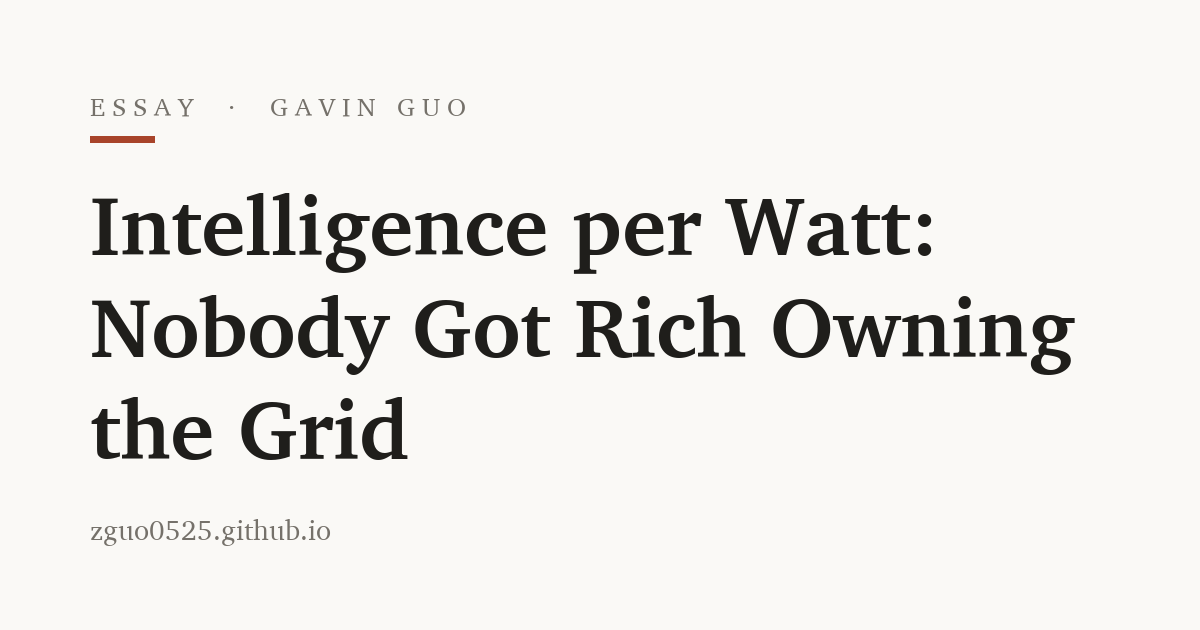
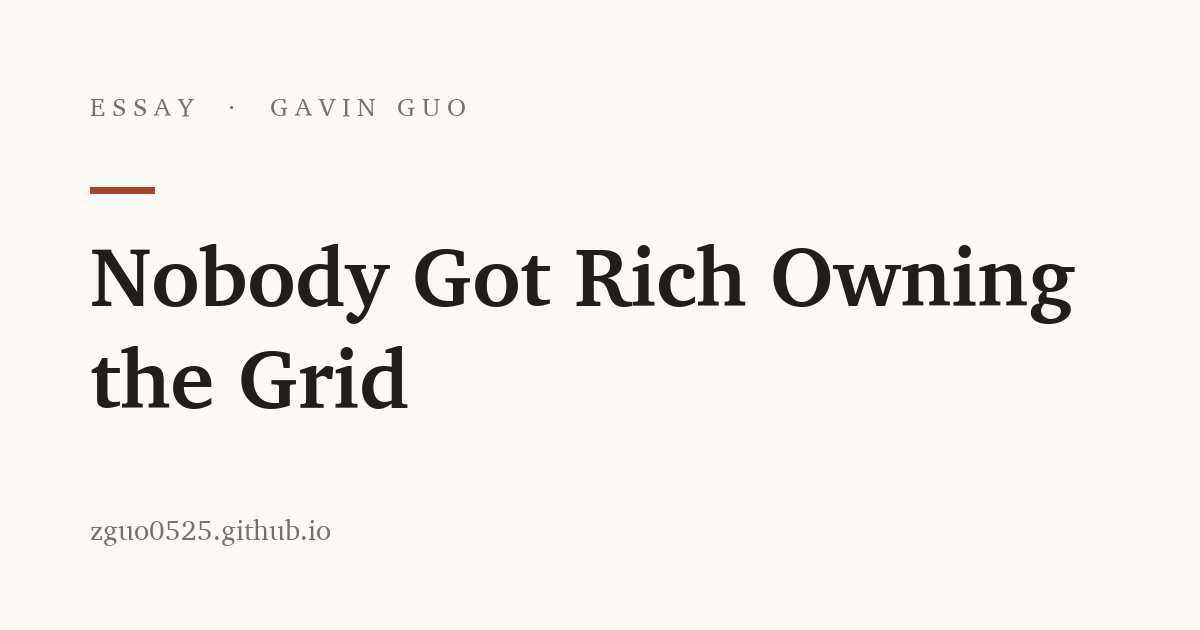
Essay: make the Pareto frontier part of the grid thesis; retitle to Nobody Got Rich Owning the Grid
Claude-Session: https://claude.ai/code/session_01HnC98uYSSXDKz9D1f4jfEu

Changed region(s): [[0.0617, 0.2714, 0.8942, 0.754], [0.0617, 0.2111, 0.1233, 0.2413]]

diff --git a/_articles/intelligence-per-watt.md b/_articles/intelligence-per-watt.md
@@ -1,6 +1,6 @@
 ---
 layout: default
-title: "Intelligence per Watt: Nobody Got Rich Owning the Grid"
+title: "Nobody Got Rich Owning the Grid"
 image: /assets/cards/intelligence-per-watt.png
 description: "When the headline metric becomes output per joule, a technology has become a utility. Intelligence just did, and the money will go where it always goes: upstairs."
 date: 2026-07-14
@@ -10,7 +10,7 @@ Watch what the frontier labs brag about now. Two years ago every launch led with
 
 The old launches were MMLU, GPQA, SWE-bench — bar charts with your model in a slightly darker color, two points ahead of the competition. The launches of 2026 lead with price per million tokens, latency, efficiency curves. And since inference cost is mostly electricity plus depreciation, tokens per dollar is really tokens per joule.
 
-Nobody announced the change, but the scoreboard is different. The race is no longer *how smart*. It's *how smart per watt*.
+Nobody announced the change, but the scoreboard is different, and it has a name: the **Pareto frontier**. The race is no longer *how smart*. It's *how smart per dollar*, and since the dollar is mostly electricity plus depreciation, *how smart per watt*.
 
 That shift is worth staring at, because an industry only changes its headline metric when it has changed what it is.
 
@@ -26,9 +26,27 @@ Intelligence just made that confession.
 
 ---
 
+## The frontier is the confession
+
+Here is what that scoreboard looks like. [Artificial Analysis](https://x.com/ArtificialAnlys/status/2080384902571139386) plots every model by intelligence and cost per task, and defines the Pareto frontier as the models that no other model beats on both. In its words, everything else is paying more for less.
+
+Read one of its recent posts as a price list. Anthropic's Fable 5 led the index at 60, at $2.75 a task. xAI's Grok 4.5 scored 54 at $0.31, about 9x cheaper, and also sat on the line. DeepSeek V4 Flash scored 44 at $0.04, about 69x cheaper than Fable. Six points of intelligence cost nine times as much. That is a price curve, not a leaderboard, and a price curve is what a utility has.
+
+Three things about the frontier make it the heart of this argument, not an illustration of it.
+
+**It moves down fast.** Arena.ai [reported](https://x.com/arena/status/2057486887938646370) that GPT-4-level quality now costs roughly 500x less than in 2023, about $50 per million tokens then and about $0.10 now. It also found that models under $0.20 per million tokens trailed the leader by about 350 Arena points in 2023 and about 60 today. The cheap end didn't just get cheaper. It caught up.
+
+**Nobody owns a place on it.** One [June snapshot](https://artificialcuriositylabs.ai/posts/pareto-frontier-is-the-model-market-map/) of Artificial Analysis data found 13 of 351 priced models on the frontier. Alibaba held five slots, Xiaomi three, Google two, Anthropic one and OpenAI none. A week earlier the line had 15 models. A single 64% price cut by one lab pushed a rival off it. A position that can be taken away by a price cut isn't a position. It's a rental.
+
+**Everything off the line is dead weight.** About 96% of priced models in that snapshot were beaten by something cheaper and at least as smart. In a market with a frontier, being second-best at the same price is the same as not existing.
+
+This is the mechanism behind the rule above. The frontier is where a commodity market becomes visible: one axis of quality, one axis of cost, and a line that every competitor is pushed toward.
+
+---
+
 Why now? Because the labs did this to themselves, and they had no choice.
 
-Capability leads that used to last a year now last a quarter. Every trick discovered at the frontier leaks downmarket within months — distilled, open-weighted, replicated. The price of a fixed unit of intelligence has been collapsing roughly ten-fold a year, not because anyone wanted it to, but because five labs are competing like hell and none of them can afford to stop. When your product is interchangeable with your rival's, and your rival's marginal cost is the same electrons through the same silicon, price doesn't drift toward value. It falls toward cost. That isn't a strategic failure. It's what competition does to anything that can be measured.
+Capability leads that used to last a year now last a quarter, and the frontier above shows it: the same line, redrawn every few weeks by different labs. Every trick discovered at the frontier leaks downmarket within months — distilled, open-weighted, replicated. The price of a fixed unit of intelligence has been collapsing roughly ten-fold a year, not because anyone wanted it to, but because five labs are competing like hell and none of them can afford to stop. When your product is interchangeable with your rival's, and your rival's marginal cost is the same electrons through the same silicon, price doesn't drift toward value. It falls toward cost. That isn't a strategic failure. It's what competition does to anything that can be measured.
 
 And intelligence, as the industry defines it, can be measured. That's the trap. Anything with a benchmark can be matched; anything that can be matched gets competed down to cost. The benchmark culture the labs built to prove their superiority is the same machinery that guarantees the superiority is temporary.
 
@@ -54,11 +72,13 @@ Some of it will. But notice how each layer gets priced.
 
 Usefulness saturates. A model that files your taxes correctly is worth exactly the price of the *cheapest* competent model that files your taxes correctly — and there is always a cheaper competent one next quarter. Correct is correct. Utility has a spec, the spec has a benchmark, and we already know what happens to things with benchmarks.
 
-Delight doesn't saturate, because it was never graded against a spec. It's graded against your attention. The image of you and your friends rendered before you finish describing it. The companion that remembers what you said at 1 a.m. The character, the game, the feed. There is no eval for wanting more. You can watch the revealed preference in real time: companionship apps out-earn productivity assistants, image generation ships inside social feeds rather than office suites, and the labs that swore they were building scientists keep shipping entertainment. Nobody is confused about which way the demand curve slopes. The superficial layer isn't a distraction from the business. It *is* the business — as it was for electricity, as it was for bandwidth.
+Delight doesn't saturate, because it was never graded against a spec, and it doesn't appear on the frontier chart at all. The chart has two axes, and both are things you can measure. What people actually come back for lives off the chart. It's graded against your attention. The image of you and your friends rendered before you finish describing it. The companion that remembers what you said at 1 a.m. The character, the game, the feed. There is no eval for wanting more. You can watch the revealed preference in real time: companionship apps out-earn productivity assistants, image generation ships inside social feeds rather than office suites, and the labs that swore they were building scientists keep shipping entertainment. Nobody is confused about which way the demand curve slopes. The superficial layer isn't a distraction from the business. It *is* the business — as it was for electricity, as it was for bandwidth.
 
 ---
 
-The one honest objection is winner-take-all: some lab crosses into recursive self-improvement, capability stays scarce, the grid owner becomes the everything-company, and none of this history applies.
+Two honest objections. The first is about the frontier itself. It prices tokens, but people live with results. A cheap model that thinks longer, retries more, or needs more human correction can be [cheap on the price page and expensive in the workflow](https://x.com/ollobrains/status/2072141362435408301), and the snapshot above leaves out coding quality, reliability and latency. I think that makes the frontier a rough map, not a false one. The slope is still steep, and it is still falling.
+
+The second is winner-take-all: some lab crosses into recursive self-improvement, capability stays scarce, the grid owner becomes the everything-company, and none of this history applies.
 
 Maybe. But every visible dynamic points the other way. Leads compress. Distillation leaks. And the binding constraint at the frontier is energy — the same electrons, the same physics, available to every competitor at the same price per joule. Intelligence per watt converges *because* physics is shared. Permanent scarcity of intelligence is a bet against everything currently observable, made mostly by people who need it to be true.
 

diff --git a/essays.md b/essays.md
@@ -13,7 +13,7 @@ description: Essays by Gavin Guo on AI, agents, product, and strategy.
   <button type="button" class="filter-chip" data-filter="Strategy" aria-pressed="false">Strategy</button>
 </div>
 
-<p class="start-here"><span class="start-here-label">Start here</span> <a href="./articles/agent-topology-manifesto.html">Agent Topology Follows Task, Not Template</a> · <a href="./articles/what-machines-cant-stake.html">What Machines Can't Stake</a> · <a href="./articles/intelligence-per-watt.html">Intelligence per Watt</a></p>
+<p class="start-here"><span class="start-here-label">Start here</span> <a href="./articles/agent-topology-manifesto.html">Agent Topology Follows Task, Not Template</a> · <a href="./articles/what-machines-cant-stake.html">What Machines Can't Stake</a> · <a href="./articles/intelligence-per-watt.html">Nobody Got Rich Owning the Grid</a></p>
 
 <ul class="essay-list">
 {% assign sorted_essays = site.data.essays | sort: "date_sort" | reverse %}
